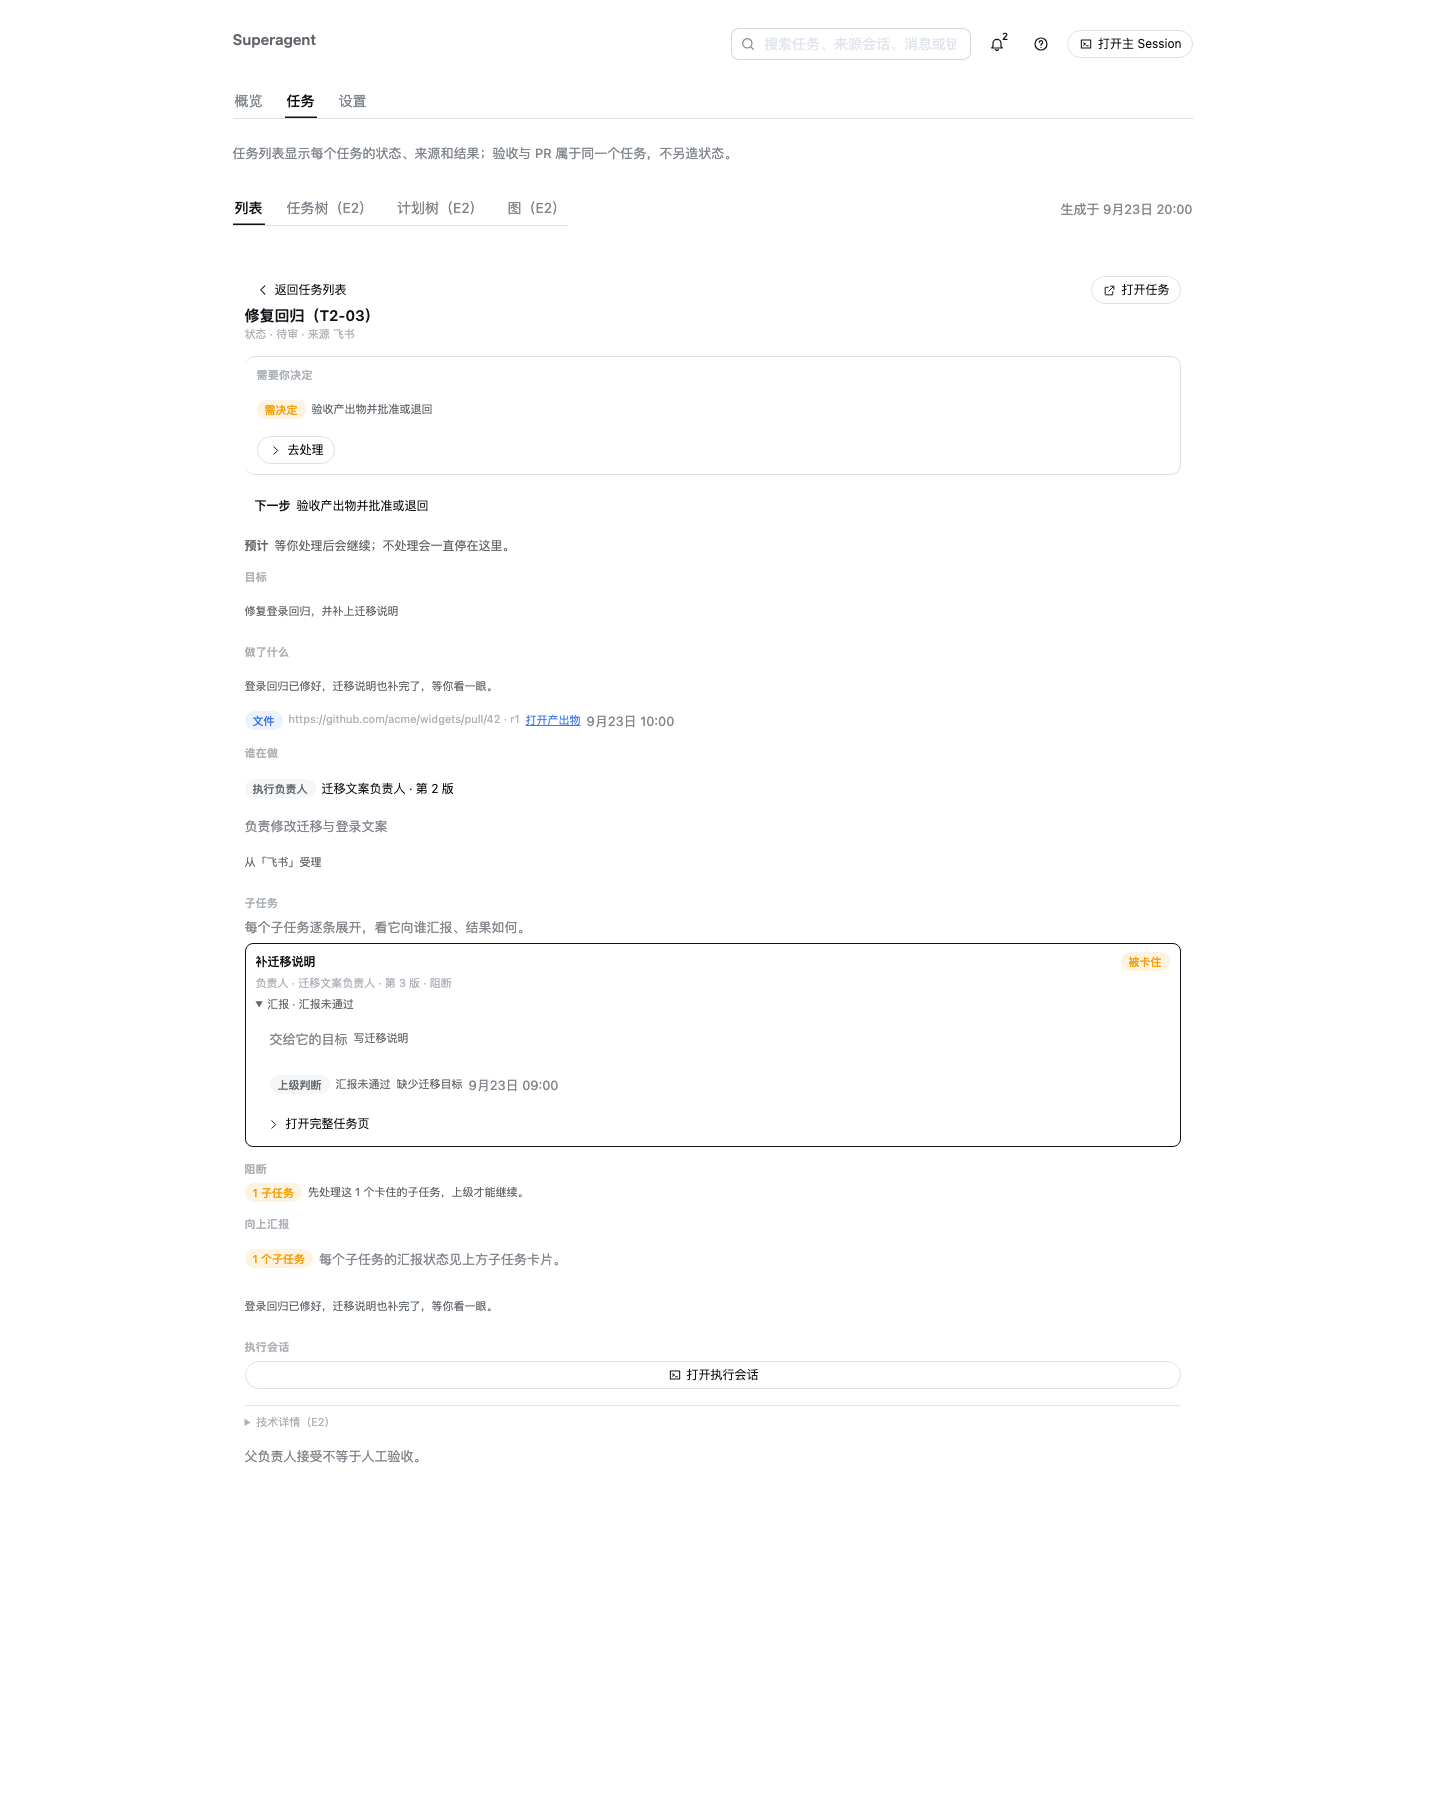
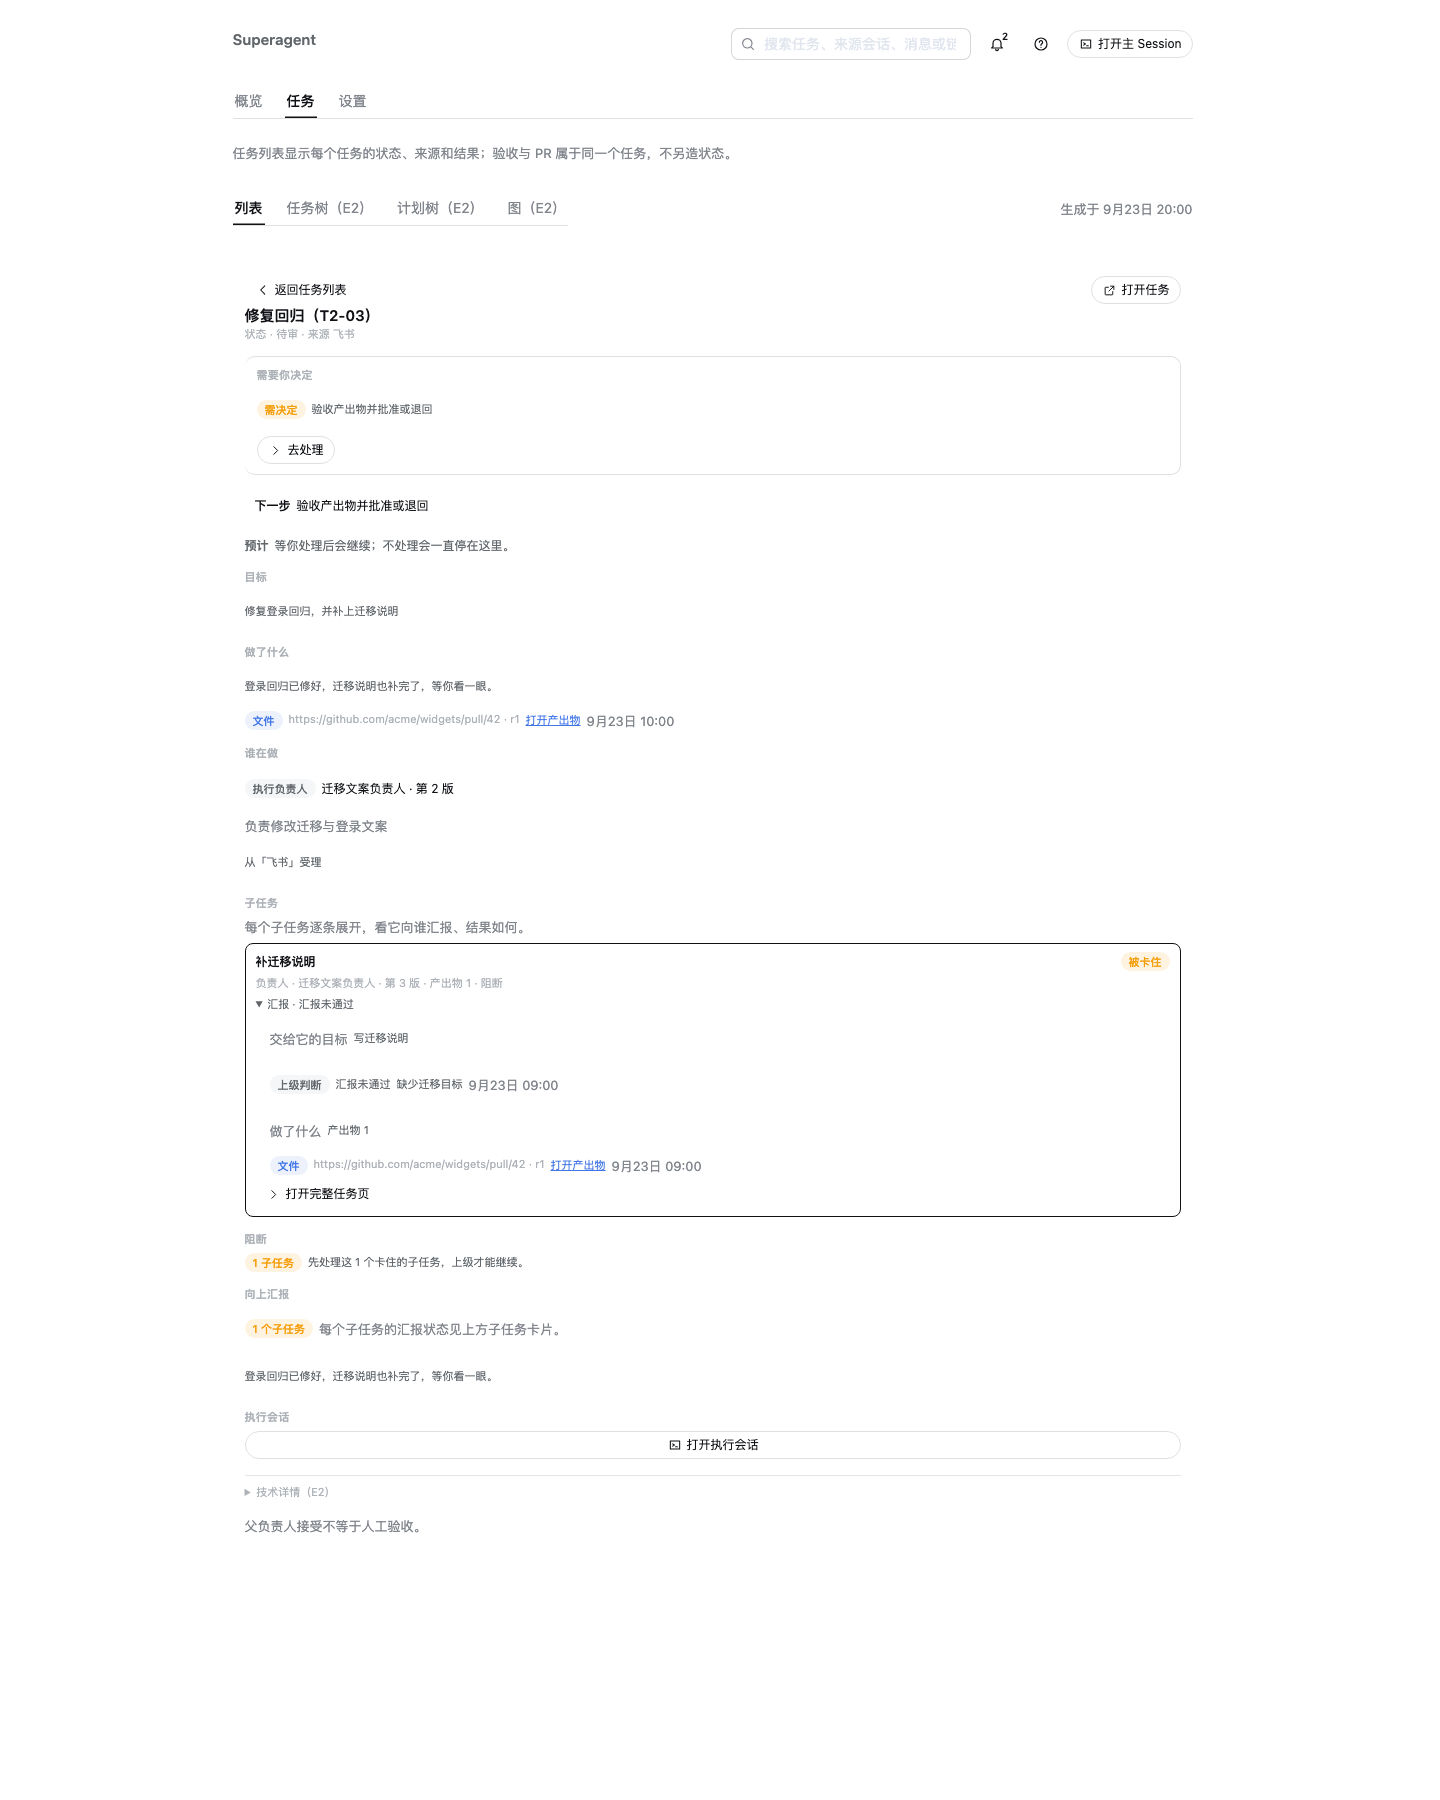
feat(ui): show each child report's deliverables

Changed region(s): [[0.1562, 0.6222, 0.375, 0.8711], [0.4688, 0.7467, 0.5312, 0.8089], [0.375, 0.6222, 0.4688, 0.6533]]

diff --git a/packages/dsh/src/client/task-detail.tsx b/packages/dsh/src/client/task-detail.tsx
@@ -1,8 +1,9 @@
 /**
- * UX batch 1's task hierarchy detail: one Ticket at a time, in the order a person reads work — goal, next step, owner,
- * child levels, deliverables, blocker, reporting and the working session. A child level opens in place, so the whole
- * delegation chain is reachable without turning the default list into a deep tree. Internal ids and Session ids stay
- * inside the collapsed E2 block, and every fact is a projection of `GET tasks`/`GET tasks/:id`.
+ * The task detail: one Ticket at a time, in the order a person reads work. Batch 2 leads with the person's decision,
+ * result, next step with honest timing and a human owner before the goal, then child levels, blockers, reporting and the
+ * working session. A child level opens in place and its report folds out its goal, judgement and deliverables, so the
+ * whole delegation chain is reachable without turning the default list into a deep tree. Internal ids and Session ids
+ * stay inside the collapsed E2 block, and every fact is a projection of `GET tasks`/`GET tasks/:id` and `GET profiles`.
  */
 import { useEffect, useMemo, useState } from 'react'
 import type { TaskView } from '../app/tasks.ts'
@@ -52,7 +53,7 @@ function ownerLabel(t: T, profile: { id: string; revision: number } | undefined,
 /** A direct link only for a real address; a repository-relative ref opens the full record that contains it. */
 const isWeb = (ref: string): boolean => /^https?:\/\//.test(ref)
 const deliverableLink = (item: TaskView['deliverables'][number]): string | undefined =>
-  [item.previewRef.ref, item.artifact.ref].find(isWeb)
+  [item.previewRef?.ref, item.artifact.ref].find(isWeb)
 
 /** How soon this level is expected to move, phrased from what the record actually knows rather than invented. */
 export function estimateText(task: TaskView, t: T): string {
@@ -177,8 +178,8 @@ function Reports({ task, t }: { task: TaskView; t: T }) {
   </>
 }
 
-function LevelRow({ task, t, onEnter, v2 = false, profiles = [] }: { task: TaskView; t: T; onEnter: () => void; v2?: boolean
-  profiles?: readonly ProfileRow[] }) {
+function LevelRow({ task, t, onEnter, onOpenTicket, v2 = false, profiles = [] }: { task: TaskView; t: T; onEnter: () => void
+  onOpenTicket: (id: string) => void; v2?: boolean; profiles?: readonly ProfileRow[] }) {
   const deliverables = task.deliverables.length
   const report = task.delegation?.resolution
   return <li className="dt-task-level" data-status={task.status}>
@@ -205,8 +206,9 @@ function LevelRow({ task, t, onEnter, v2 = false, profiles = [] }: { task: TaskV
           {report.reason && <span>{report.reason}</span>}
           <span className="dt-hint">{when(report.at, t('lang'))}</span></p>
           : <p className="dt-hint">{t('taskDetailChildNoReport')}</p>}
-        {deliverables > 0 && <p className="dt-task-report"><span className="dt-hint">{t('taskDetailDone')}</span>
-          <span>{t('tasksDeliverables', { count: deliverables })}</span></p>}
+        {deliverables > 0 && <><p className="dt-task-report"><span className="dt-hint">{t('taskDetailDone')}</span>
+          <span>{t('tasksDeliverables', { count: deliverables })}</span></p>
+          <Deliverables task={task} t={t} onOpenTicket={onOpenTicket} /></>}
       </div>
     </details> : report && <div className="dt-task-report">
       <Tag tone={report.kind === 'accepted' ? 'success' : 'neutral'}>
@@ -293,7 +295,7 @@ export function TaskDetail({ task, store, onBack, onOpenTicket }: { task: TaskVi
     <div className="dt-task-detail-section">
       <h4>{t('taskHierarchyChildren')}</h4>
       {v2 && children.length > 0 && <p className="dt-hint">{t('taskDetailChildReportsHint')}</p>}
-      {children.length ? <ul className="dt-task-levels">{children.map(child => <LevelRow key={child.id} task={child} t={t} v2={v2}
+      {children.length ? <ul className="dt-task-levels">{children.map(child => <LevelRow key={child.id} task={child} t={t} v2={v2} onOpenTicket={onOpenTicket}
         profiles={profiles} onEnter={() => { store.ensureDetail(child.id); setStack([...stack, { id: child.id, task: child }]) }} />)}</ul>
         : focus.childSummary?.total ? <p className="dt-hint">{t('loading')}</p> : <p className="dt-hint">{t('taskHierarchyNoChildren')}</p>}
       {deeper > 0 && <p className="dt-hint">{t('taskHierarchyMore', { count: deeper })}</p>}

diff --git a/tests/panel-ux-second-batch.spec.tsx b/tests/panel-ux-second-batch.spec.tsx
@@ -23,7 +23,11 @@ function hierarchy(): TaskBoardView {
     delegation: { parentTicketId: 't1', rootTicketId: 't1', goal: '写迁移说明', attempt: 1, dispositions: [],
       resolution: { kind: 'failed', by: { source: 'dsh', id: 'worker-plan' }, at: '2026-09-23T01:00:00Z', reason: '缺少迁移目标' } },
     goal: { id: 't1-child', statement: '写迁移说明', state: { stage: 'waiting', action: 'blocked' }, results: [] },
-    deliverables: [], blocker: { kind: 'blocked', detail: '缺少迁移目标' },
+    deliverables: [{ key: 't1-child:d1', sources: [], at: '2026-09-23T01:00:00Z', summary: '迁移说明已补',
+      artifact: { kind: 'file', ref: 'https://github.com/acme/widgets/pull/42', revision: 'r1' },
+      previewRef: { kind: 'text/diff', ref: 'https://github.com/acme/widgets/pull/42/files', revision: 'r1' },
+      criteria: [], confirmations: [] }],
+    blocker: { kind: 'blocked', detail: '缺少迁移目标' },
     childSummary: { total: 0, live: 0, queued: 0, working: 0, waiting: 1, review: 0, blocked: 1, failed: 0, orphaned: 0,
       accepted: 0, cancelled: 0, unresolved: 0 } }
   const root: TaskView = { ...board.tasks[0]!, status: 'review', attention: true, durationMs: 7_200_000,
@@ -145,6 +149,7 @@ it('answers decision, result, next step with timing, owner and each child report
   expect(report.textContent).toContain(zh.taskDetailChildGoal)
   expect(report.textContent).toContain('写迁移说明')
   expect(report.textContent).toContain('缺少迁移目标')
+  expect(report.querySelector('a')?.textContent).toBe(zh.taskDetailOpenDeliverable)
 })
 
 it('shows the three first-use lines once and clickable starting points when there is no task', async () => {

diff --git a/docs/024-ux-second-batch.zh.md b/docs/024-ux-second-batch.zh.md
@@ -9,7 +9,7 @@
 | # | 提案条目 | 落地 |
 | --- | --- | --- |
 | ① | 系统页收进设置 | 默认面只保留「概览 / 任务 / 设置」；来源、触发、评估、执行成为设置里的四个独立页，带分组、图标和每页一句话说明。原有 `source`、`trigger`、`eval`、`execution` 路由保留，告警、通知和任务里的直接链接仍能落到同一记录；列表路由打开设置页，带 id 的详情路由仍显示详情且不选中一级标签 |
-| ② | 任务详情加详 | 详情依次回答「需要你决定什么（没有就写不需要你做什么）/ 做了什么（结果摘要 + 产出物链接）/ 下一步与预计 / 谁在做（负责人的人话描述）」；子任务汇报逐条展开，显示交给它的目标、上级判断、理由与时间；内部 id 仍只在 E2 |
+| ② | 任务详情加详 | 详情依次回答「需要你决定什么（没有就写不需要你做什么）/ 做了什么（结果摘要 + 产出物链接）/ 下一步与预计 / 谁在做（负责人的人话描述）」；子任务汇报逐条展开，显示交给它的目标、上级判断、理由、时间与自己的产出物链接；内部 id 仍只在 E2 |
 | ③ | 空态与首次使用 | 首次打开面板（概览或任务页）显示三行说明「你能让它做什么 / 它需要你做什么 / 从哪开始」，读过一次收起；没有任务时给两个可点击入口：打开主会话、连接来源 |
 | ④ | 术语 | 任务、概览、通知、详情继续使用「任务、结果、产出物、负责人、执行会话、被卡住」等词；运维设置页保留其既有运维名称；`worker-`、`ticket_`、`session_` 与 Assignment 等只在 E2/E3 |
 | ⑤ | Feature Flags | 收编、任务详情加详、首次说明各自独立开关；关闭后回到 023 的七标签默认面、第一批任务详情和纯文字空态，记录不删 |
